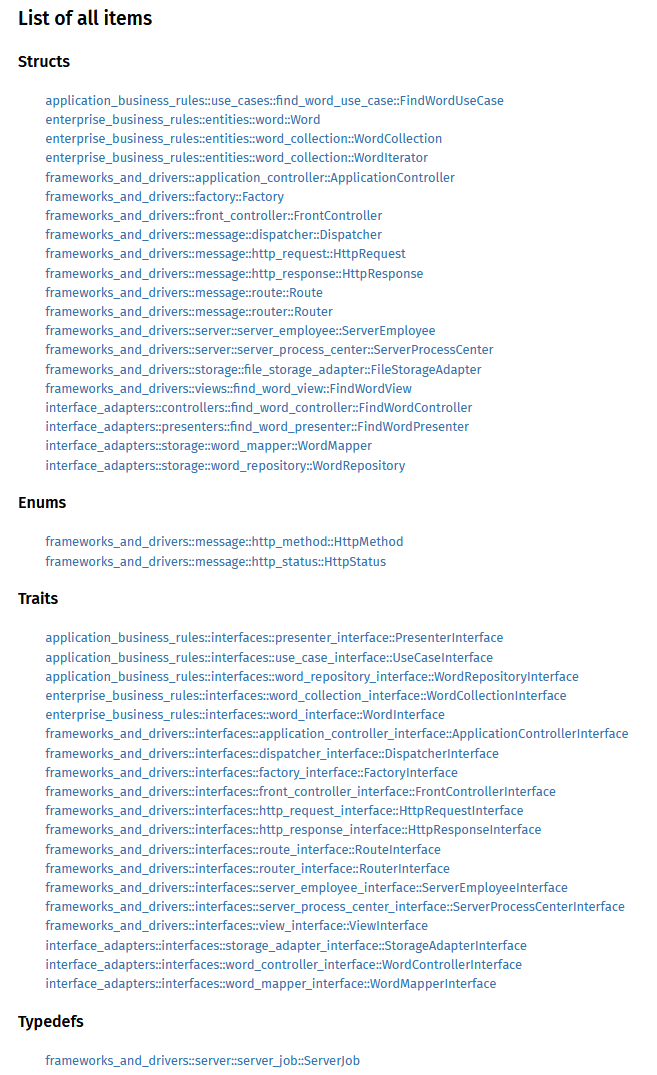
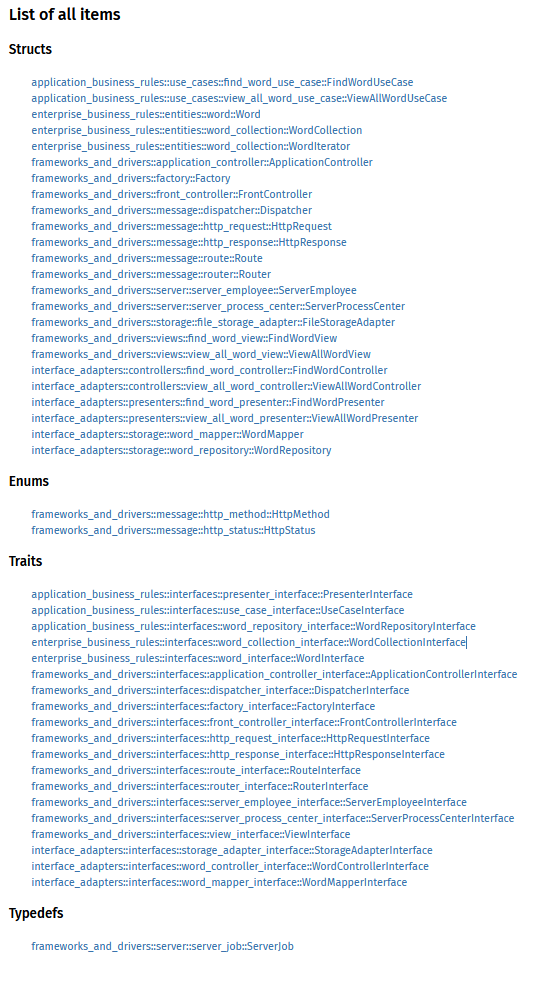
update

Changed region(s): [[0.0, 0.0, 0.9606, 1.0]]

diff --git a/src/frameworks_and_drivers/front_controller.rs b/src/frameworks_and_drivers/front_controller.rs
@@ -49,7 +49,7 @@ mod tests {
         let http_request: Box<dyn HttpRequestInterface> = Box::new(HttpRequest::new(
             HttpMethod::Get,
             "/words/ability".to_owned(),
-            Some("ability".to_owned()),
+            None,
         ));
 
         let route = Box::new(Route::new(HttpMethod::Get, "/words/*", "find_word"));
@@ -73,7 +73,7 @@ mod tests {
         let http_request: Box<dyn HttpRequestInterface> = Box::new(HttpRequest::new(
             HttpMethod::Get,
             "/words/qazxsw".to_owned(),
-            Some("ability".to_owned()),
+            None,
         ));
 
         let http_response = front_controller.delegate(http_request);
@@ -81,5 +81,29 @@ mod tests {
         assert!(http_response
             .view_response()
             .contains("Word \"qazxsw\" is not found"));
+    }
+
+    #[test]
+    fn view_all() {
+        let http_request: Box<dyn HttpRequestInterface> =
+            Box::new(HttpRequest::new(HttpMethod::Get, "/words".to_owned(), None));
+
+        let route = Box::new(Route::new(HttpMethod::Get, "/words", "view_all"));
+
+        let mut router: Box<dyn RouterInterface> = Box::new(Router::new());
+
+        router.add_route(route);
+
+        let factory: Box<dyn FactoryInterface> = Box::new(Factory::new());
+
+        let dispatcher: Box<dyn DispatcherInterface> = Box::new(Dispatcher::new(&factory));
+
+        let front_controller = FrontController::new(&dispatcher, router);
+
+        let http_response = front_controller.delegate(http_request);
+
+        assert!(["ability", "able", "a"]
+            .iter()
+            .all(|&word| http_response.view_response().contains(word)));
     }
 }
